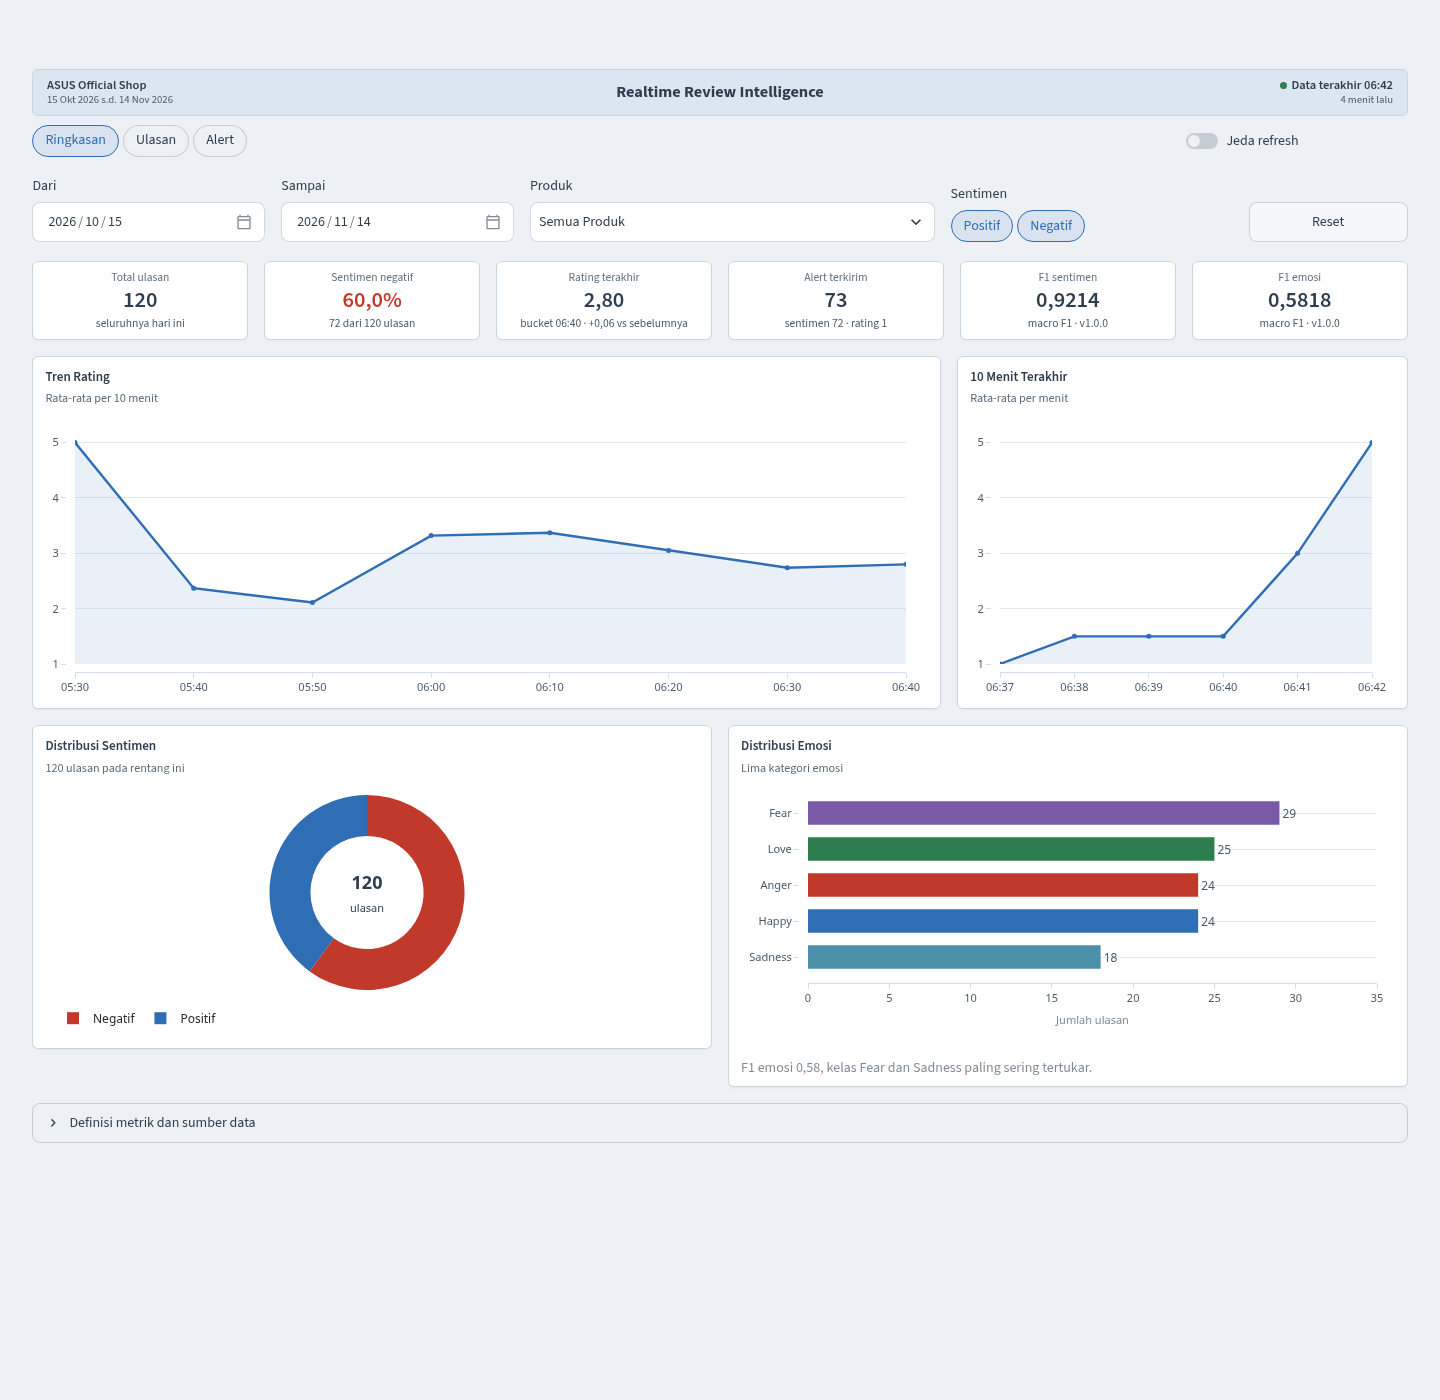
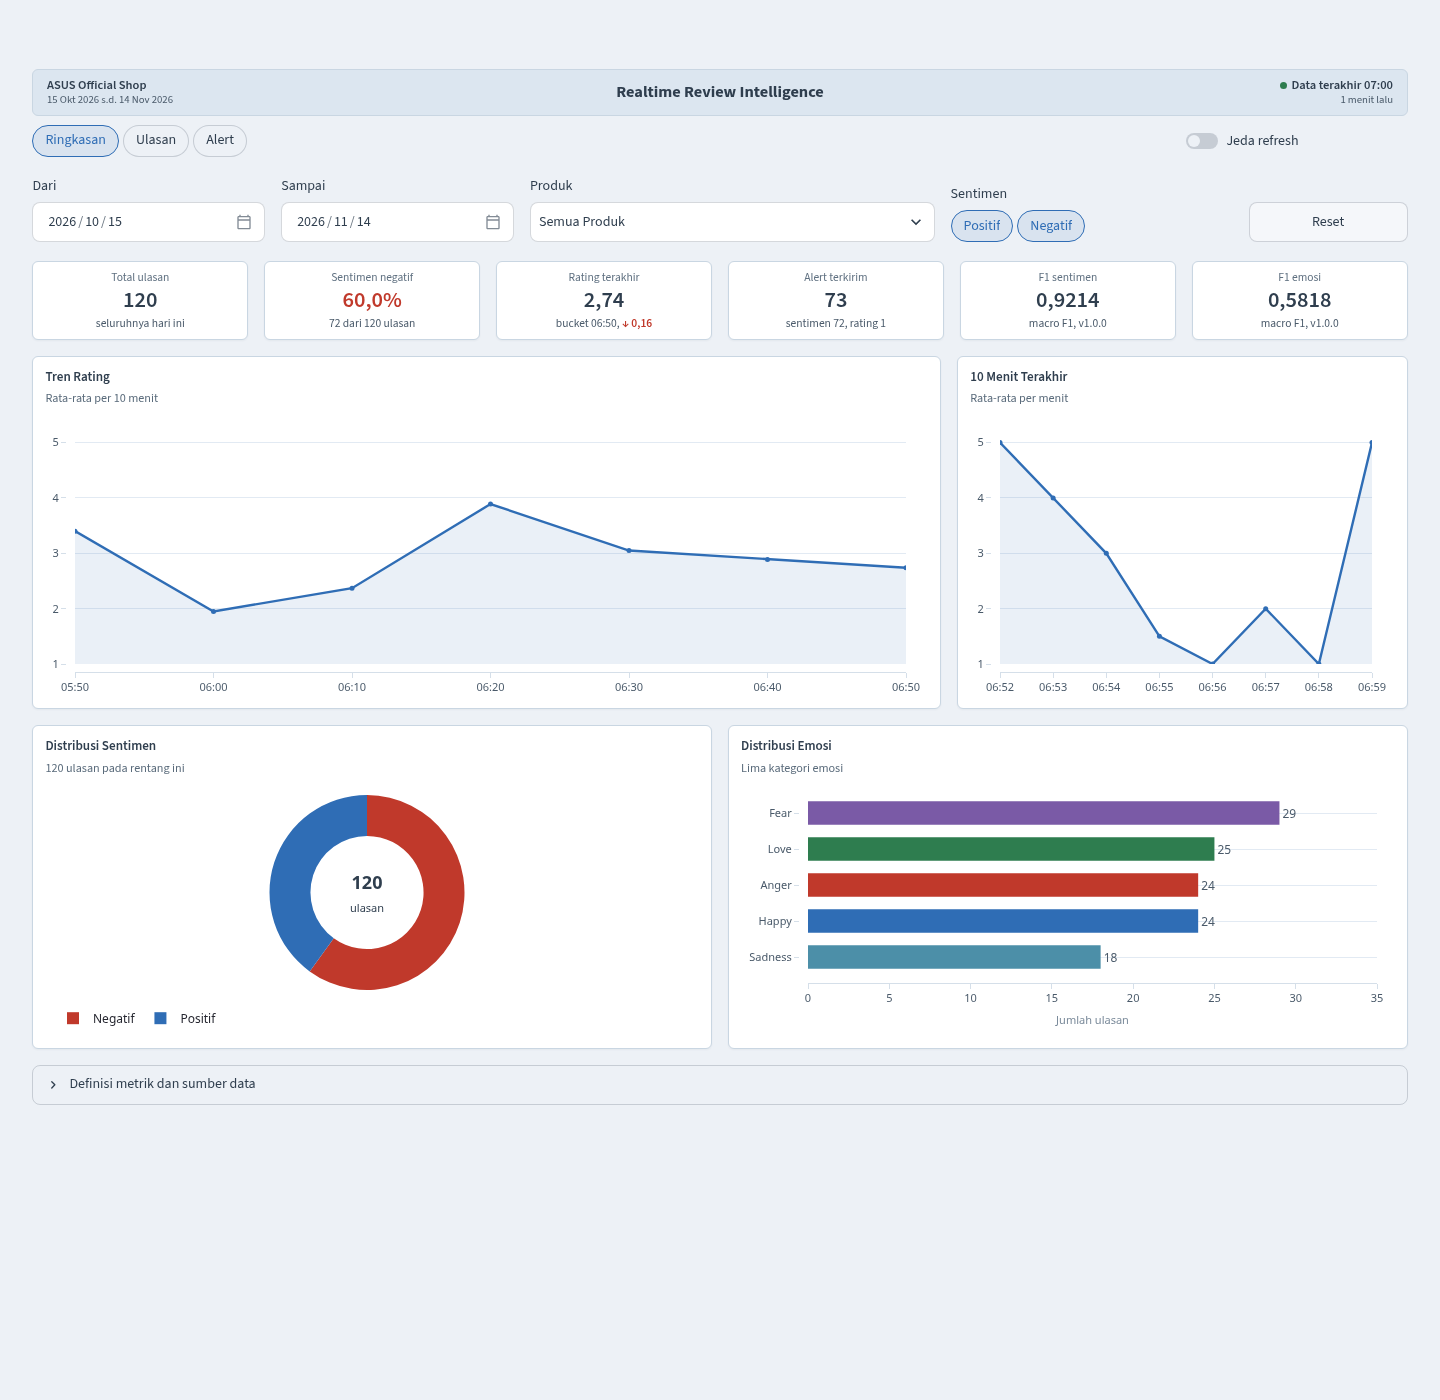
fix(dashboard): remove nested card artifacts and text separators
- render empty states inline inside cards without dashed overflow
- show alert summary as plain stats without nested boxes
- drop the emotion f1 caption and architecture sentence
- replace middle dots with commas and show colored delta arrows

diff --git a/streaming/services/dashboard/app.py b/streaming/services/dashboard/app.py
@@ -10,6 +10,7 @@ from components import (
     chart_produk,
     chart_sentimen,
     chart_tren,
+    delta_html,
     inject_css,
     kartu,
     kpi,
@@ -182,7 +183,10 @@ filters = {
 }
 
 if st.session_state.filter_date_from > st.session_state.filter_date_to:
-    kosong("Tanggal awal melewati tanggal akhir. Perbaiki rentang atau tekan Reset.")
+    kosong(
+        "Tanggal awal melewati tanggal akhir. Perbaiki rentang atau tekan Reset.",
+        kotak=True,
+    )
     st.button("Reset filter", key="reset_range", on_click=_reset_filters)
     st.stop()
 
@@ -199,12 +203,13 @@ total_ulasan = get_total_reviews_count(filters)
 
 if total_ulasan == 0:
     kosong(
-        "Tidak ada ulasan untuk kombinasi filter ini. Longgarkan tanggal, produk, atau sentimen."
+        "Tidak ada ulasan untuk kombinasi filter ini. Longgarkan tanggal, produk, atau sentimen.",
+        kotak=True,
     )
     st.button("Reset filter", key="reset_empty", on_click=_reset_filters)
     st.caption(
         "Filter aktif: "
-        + " · ".join(
+        + "; ".join(
             [
                 f"Periode {_tanggal_id(st.session_state.filter_date_from)} s.d. {_tanggal_id(st.session_state.filter_date_to)}",
                 f"Produk {produk_terpilih if produk_terpilih != ALL_PRODUCT else 'semua'}",
@@ -236,26 +241,27 @@ def halaman_ringkasan(
             delta = metrics["avg_rating_delta"]
             bucket = metrics.get("avg_rating_bucket")
             waktu_bucket = f"bucket {bucket:%H:%M}" if bucket is not None else "bucket terakhir"
-            sub = (
-                waktu_bucket
-                if delta is None
-                else f"{waktu_bucket} · {delta:+.2f} vs sebelumnya".replace(".", ",")
+            sub = waktu_bucket if delta is None else f"{waktu_bucket}, {delta_html(delta)}"
+            kpi(
+                "Rating terakhir",
+                rating(metrics["avg_rating_now"]),
+                sub=sub,
+                sub_html=True,
             )
-            kpi("Rating terakhir", rating(metrics["avg_rating_now"]), sub=sub)
     with kolom[3]:
         kpi("Alert terkirim", angka(metrics["alert_count"]),
-            sub=(f"sentimen {angka(alert_counts.get('sentiment_negative', 0))} · "
+            sub=(f"sentimen {angka(alert_counts.get('sentiment_negative', 0))}, "
                  f"rating {angka(alert_counts.get('rating_drop', 0))}"))
     with kolom[4]:
         info = model_info.get("sentiment", {})
         kpi("F1 sentimen",
             f"{info.get('f1', 0):.4f}".replace(".", ",") if info.get("f1") is not None else "—",
-            sub=f"macro F1 · v{info.get('version', '—')}")
+            sub=f"macro F1, v{info.get('version', '—')}")
     with kolom[5]:
         info = model_info.get("emotion", {})
         kpi("F1 emosi",
             f"{info.get('f1', 0):.4f}".replace(".", ",") if info.get("f1") is not None else "—",
-            sub=f"macro F1 · v{info.get('version', '—')}")
+            sub=f"macro F1, v{info.get('version', '—')}")
 
     st.markdown("<div style='height:0.65rem'></div>", unsafe_allow_html=True)
 
@@ -316,12 +322,6 @@ def halaman_ringkasan(
                 st.plotly_chart(
                     chart_emosi(df_emosi), width="stretch", config=PLOT_CONFIG
                 )
-                f1_emo = model_info.get("emotion", {}).get("f1")
-                if f1_emo is not None:
-                    st.caption(
-                        f"F1 emosi {f1_emo:.2f}".replace(".", ",")
-                        + ", kelas Fear dan Sadness paling sering tertukar."
-                    )
 
     with st.expander("Definisi metrik dan sumber data"):
         st.markdown(
@@ -334,7 +334,7 @@ def halaman_ringkasan(
 | Alert terkirim | Notifikasi yang dipicu oleh sentimen negatif atau penurunan rating |
 | F1 sentimen dan emosi | Macro F1 model aktif pada data uji, diambil dari metadata model |
 
-Sumber data adalah ulasan toko yang dipantau, dialirkan lewat Kafka, diproses dengan Spark Structured Streaming, lalu disimpan di PostgreSQL.
+Sumber data: ulasan toko ASUS di Shopee.
             """
         )
 

diff --git a/streaming/services/dashboard/components.py b/streaming/services/dashboard/components.py
@@ -111,13 +111,20 @@ div[class*="st-key-card-"] {
 .page-info { text-align: center; font-size: 0.74rem; color: var(--muted); padding-top: 0.45rem; }
 
 .alert-stats { display: grid; grid-template-columns: 1fr 1fr; gap: 0.7rem; margin: 0.2rem 0 0.3rem; }
-.alert-stat { background: #F4F7FB; border: 1px solid #E3EAF3; border-radius: 6px; padding: 0.5rem 0.7rem; }
+.alert-stat { background: transparent; border: none; border-left: 2px solid #DCE6F0;
+  padding: 0.15rem 0 0.15rem 0.7rem; }
 .alert-stat span { display: block; font-size: 0.72rem; color: #7A8A9A; }
 .alert-stat b { display: block; font-size: 1.25rem; color: #2F3E4E; line-height: 1.2; }
 .alert-stat small { display: block; font-size: 0.7rem; color: #4A5A6A; }
 
-.empty { background: #FFFFFF; border: 1px dashed var(--line); border-radius: 6px;
-  padding: 1.6rem 1rem; text-align: center; color: var(--muted); font-size: 0.85rem; }
+.empty { padding: 1.1rem 0.75rem; text-align: center; color: var(--muted); font-size: 0.85rem; }
+.empty.kotak { background: #FFFFFF; border: 1px dashed var(--line); border-radius: 6px;
+  padding: 1.6rem 1rem; }
+
+.delta { font-weight: 600; white-space: nowrap; }
+.delta.up { color: #2E7D4F; }
+.delta.down { color: #C0392B; }
+.delta.flat { color: #7A8A9A; font-weight: 500; }
 
 .def-table { width: 100%; border-collapse: collapse; font-size: 0.78rem; margin-top: 0.2rem; }
 .def-table th { text-align: left; font-weight: 600; background: #F4F7FB;
@@ -169,9 +176,11 @@ def topbar(
     )
 
 
-def kpi(label: str, value: str, merah: bool = False, sub: str = "") -> None:
+def kpi(
+    label: str, value: str, merah: bool = False, sub: str = "", sub_html: bool = False
+) -> None:
     kelas = "kpi-value red" if merah else "kpi-value"
-    isi_sub = html.escape(sub) if sub else "&nbsp;"
+    isi_sub = (sub if sub_html else html.escape(sub)) if sub else "&nbsp;"
     st.markdown(
         f'<div class="kpi-card"><div class="kpi-label">{html.escape(label)}</div>'
         f'<div class="{kelas}">{html.escape(value)}</div>'
@@ -437,5 +446,22 @@ def stats_alert(items: list[tuple[str, str, str]]) -> None:
     st.markdown(f"<div class='alert-stats'>{isi}</div>", unsafe_allow_html=True)
 
 
-def kosong(pesan: str) -> None:
-    st.markdown(f"<div class='empty'>{html.escape(pesan)}</div>", unsafe_allow_html=True)
+def delta_html(value: float | None, naik_baik: bool = True) -> str:
+    if value is None:
+        return "<span class='delta flat'>–</span>"
+    if abs(value) < 0.005:
+        return "<span class='delta flat'>→ 0,00</span>"
+    naik = value > 0
+    bagus = naik if naik_baik else not naik
+    kelas = "up" if bagus else "down"
+    panah = "↑" if naik else "↓"
+    angka = f"{abs(value):.2f}".replace(".", ",")
+    return (
+        f"<span class='delta {kelas}' title='dibanding bucket sebelumnya'>"
+        f"{panah} {angka}</span>"
+    )
+
+
+def kosong(pesan: str, kotak: bool = False) -> None:
+    kelas = "empty kotak" if kotak else "empty"
+    st.markdown(f"<div class='{kelas}'>{html.escape(pesan)}</div>", unsafe_allow_html=True)
